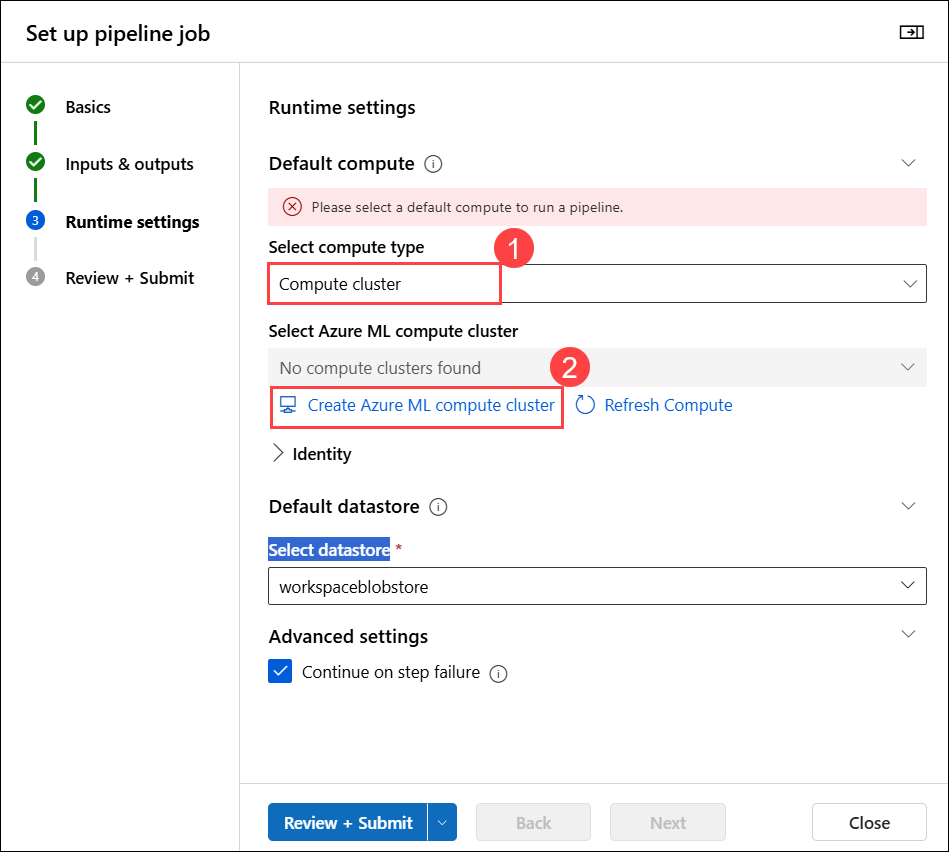
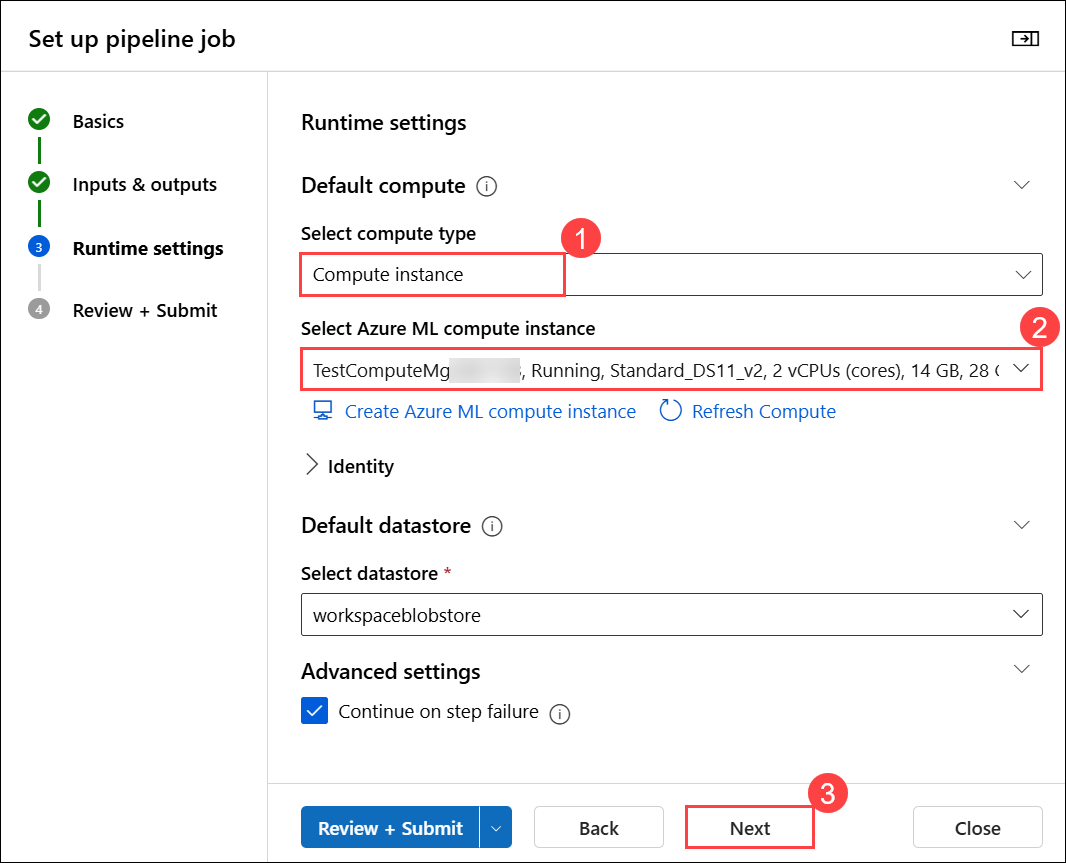
updated lab 10

diff --git a/Instructions/Labs/SREB-Year2/Lesson10/L10_U01.md b/Instructions/Labs/SREB-Year2/Lesson10/L10_U01.md
@@ -4,17 +4,21 @@
 
 ## Lab overview
 
-In this lab, you will connect to an Azure SQL Database and apply aggregation, filtering, and join techniques to analyze transportation data in the **TrafficCounts_SC** table. You will explore how SQL commands such as **GROUP BY, HAVING, JOIN, LIKE, IN**, and **UNION** transform raw traffic records into meaningful insights that support smart city and transportation planning decisions.
+In this lab, you will integrate Azure SQL Database with Azure Machine Learning Designer to analyze transportation data and build a predictive model for traffic congestion.
+
+You will begin by connecting Azure ML to a SQL database containing the TrafficCounts_SC dataset. Using SQL queries, you will explore, aggregate, and validate traffic data. After preparing the dataset, you will design a complete machine learning pipeline in Azure ML Designer to classify whether a road segment has HighVolume traffic using a Two-Class Decision Forest model.
+
+By the end of this lab, you will understand how structured SQL data can be transformed into actionable insights and how machine learning models can be trained and evaluated to support smart city planning decisions.
 
 ## Lab objectives
 
 In this exercise, you will perform the following tasks:
 
-- Task 1: Analyzing and Summarizing Traffic Data Using SQL Aggregations and Joins
+- Task 1: Traffic Data Analysis and Classification Using Azure SQL and Azure ML
 
-## Task 1: Analyzing and Summarizing Traffic Data Using SQL Aggregations and Joins
+## Task 1: Traffic Data Analysis and Classification Using Azure SQL and Azure ML
 
-In this task, you will use SQL queries in Azure Query Editor to group, filter, and combine traffic datasets in order to identify traffic patterns, compare counties and regions, and generate summaries that reflect real-world transportation planning needs.
+In this task, you'll connect Azure ML to an Azure SQL database, retrieve and prepare traffic data, build a Decision Forest classification pipeline in Azure ML Designer, and evaluate the model to predict high traffic volume.
 
 1. Open the link below in your browser to access **Azure Machine Learning Studio**:
 
@@ -208,7 +212,7 @@ In this task, you will use SQL queries in Azure Query Editor to group, filter, a
 
     ![](../images/lesson10-e1t1p38.png)
 
-1. Ensure that your entire pipeline closely matches the layout shown in the screenshot below. Then click on **Configure & Submit**.
+1. Ensure that your entire pipeline closely matches the layout shown in the screenshot below. Click on **Save (1)** and then select **Configure & Submit (2)**.
 
     ![](../images/lesson10-e1t1p39.png)
 
@@ -225,36 +229,9 @@ In this task, you will use SQL queries in Azure Query Editor to group, filter, a
 
     ![](../images/lesson10-e1t1p41.png)
 
-1. Under **Runtime settings** section, select the Compute type as **Compute cluster (1)** and then click on **Create Azure ML compute cluster (2)**.
+1. Under **Runtime settings** section, select the Compute type as **Compute instance (1)** and in the **Select Azure ML compute instance** select the running instance by the name **TestComputeMg<inject key="Deployment ID" enableCopy="false"/> (2)** and click on **Next (3)**.
 
     ![](../images/lesson10-e1t1p42.png)
-
-1. In the **Create compute cluster** window, under the **Select virtual machine** section, enter the following details:
-
-    - Location: <inject key = "Location" enableCopy="true" /> **(1)**
-    - Virtual machine tier: Dedicated **(2)**
-    - Virtual machine type: CPU **(3)**
-    - Virtual machine size: Select from recommended options **(4)**
-    - Select Standard_DS3_v2 **(5)**
-    - Click **Next (6)**
-
-        ![](../images/lesson10-e1t1p43.png)
-
-1. Under **Configure settings**, in the **Advanced Settings** section, provide the following details:
-
-    - Compute name: `traffic-cluster` **(1)**
-    - Click on Advanced settings drop-down **(2)**
-    - Enable the **Assign a Managed identity** setting **(3)**
-    - Select Identity type as **System Assigned (4)**
-    - Click on **Create (5)**.
-
-        ![](../images/lesson10-e1t1p44(1).png)
-
-1. Under **Select Azure ML compute cluster**, choose the newly created compute cluster **(1)** and then click **Next (2)**.
-
-    ![](../images/lesson10-e1t1p45.png)
-
-    > **Note:** It may take a few minutes for the compute cluster to finish provisioning before it becomes available for selection.
 
 1. In the **Review + Submit** section, verify the settings and then click **Submit**.
 
@@ -264,8 +241,47 @@ In this task, you will use SQL queries in Azure Query Editor to group, filter, a
 
     ![](../images/lesson10-e1t1p47.png)
 
+    >**Note:** The job will take around 5 minutes to complete.
+
+1. Once the job is completed, you should see something similar to the following:
+
+    ![](../images/lesson10-e1t1p48.png)
+
+1. After the job completes, right-click on **Evaluate Model (1)**, select **Preview data (2)**, and then click on **Evaluation results (3)**.
+
+    ![](../images/lesson10-e1t1p49.png)
+
+1. Review the displayed metrics: the ROC curve indicates almost perfect class separation (AUC = 0.999), reflecting outstanding model performance. The Precision-Recall curve is positioned near the top-right corner, showing high precision (0.992) and recall (0.992). The Lift curve highlights strong predictive capability, and the confusion matrix reveals very few misclassifications-just 2 errors out of 300 predictions.
+
+
+    ![](../images/lesson10-e1t1p50.png)
+
+1. Scroll down to review the detailed performance table. This section categorizes predictions into score bins, which reflect the model’s confidence levels (for example, a 0.9-1.0 bin represents predictions made with 90-100% confidence).
+
+    Each row in the table provides:
+
+    - **Positive/Negative counts** - The number of actual positive and negative cases within that confidence range.
+    - **Performance metrics** - Accuracy, F1 score, Precision, and Recall calculated for that specific bin.
+    - **Negative Precision and Recall** - Metrics that measure how effectively the model identifies negative cases.
+    - **Cumulative metrics** - Aggregated performance values calculated progressively from the highest-confidence predictions downward.
+
+1. The highest-confidence bins (such as 0.9-1.0 and 0.8-0.9) demonstrate perfect precision (1.000) and strong recall, indicating that the model performs exceptionally well when it makes predictions with high confidence.
+
+1. This breakdown allows you to see where the model performs most effectively and whether its performance declines for predictions made with lower confidence.
+
+1. These results confirm the model is highly accurate (Accuracy = 0.993) in predicting the HighVolume label.
+
+    ![](../images/lesson10-e1t1p51.png)
+
+> **Congratulations** on completing the task! Now, it's time to validate it. Here are the steps:
+> - Hit the Validate button for the corresponding task. If you receive a success message, you can proceed to the next task.
+> - If not, carefully read the error message and retry the step, following the instructions in the lab guide. 
+> - If you need any assistance, please contact us at cloudlabs-support@spektrasystems.com. We are available 24/7 to help you out.
+
+  <validation step="" />
+
 ## Summary
 
-In this lab, you practiced running advanced SQL queries to summarize traffic data, filter grouped results, and merge information across tables. By using aggregation and join operations, you moved from viewing individual records to creating regional-level insights that help identify congestion trends and support data-driven infrastructure planning.
+In this lab, you connected Azure SQL Database to Azure ML Studio, created a data asset from traffic data, prepared and cleaned the dataset, and built a Two-Class Decision Forest model using Azure ML Designer. You trained, scored, and evaluated the model to successfully predict high traffic volume with high accuracy.
 
 ### Congratulations, you’ve successfully completed the hands-on lab!

diff --git a/Instructions/Labs/SREB-Year2/Lesson09/L09_U01.md b/Instructions/Labs/SREB-Year2/Lesson09/L09_U01.md
@@ -165,6 +165,13 @@ In this task, you will use SQL queries in Azure Query Editor to group, filter, a
 
     ![](../images/lesson9-e1t1p9.png)
 
+> **Congratulations** on completing the task! Now, it's time to validate it. Here are the steps:
+> - Hit the Validate button for the corresponding task. If you receive a success message, you can proceed to the next task.
+> - If not, carefully read the error message and retry the step, following the instructions in the lab guide. 
+> - If you need any assistance, please contact us at cloudlabs-support@spektrasystems.com. We are available 24/7 to help you out.
+
+  <validation step="142c8c06-965b-4edd-ad44-ddc7b688f1df" />
+
 ## Summary
 
 In this lab, you practiced running advanced SQL queries to summarize traffic data, filter grouped results, and merge information across tables. By using aggregation and join operations, you moved from viewing individual records to creating regional-level insights that help identify congestion trends and support data-driven infrastructure planning.
